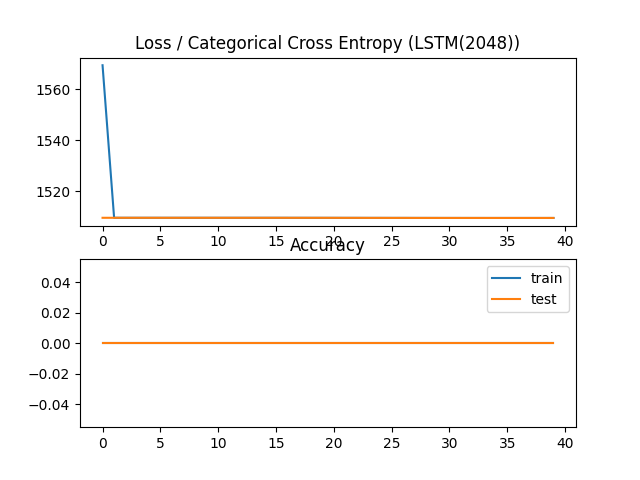
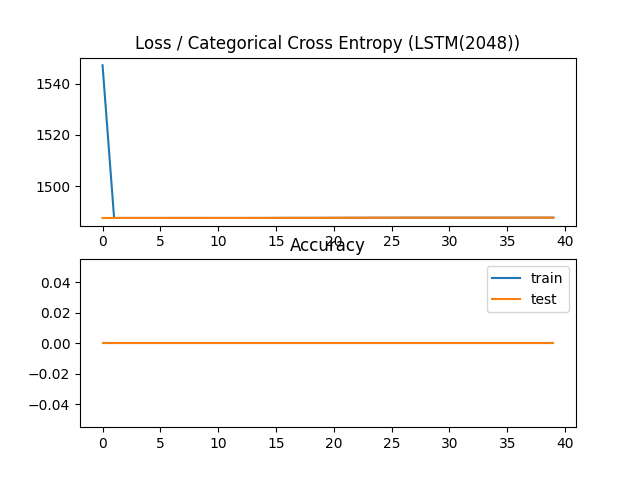
update training results

diff --git a/src/Trainers/Summary_trainer.py b/src/Trainers/Summary_trainer.py
@@ -33,7 +33,7 @@ class summary_trainer:
 
         if self.bag == None:
             self.bag = bag_of_words(1)
-            self.bag.load_wordbag()
+            self.bag.load_wordbag_withstopwords()
 
         if len(words) <= no_of_words * 2:
             return x, y
@@ -90,16 +90,16 @@ class summary_trainer:
             [
                 Input(shape=(n_features, n_class)),
                 # Bidirectional(LSTM(n_nodes, return_sequences=True)),
-                LSTM(2048, recurrent_dropout=0.3, return_sequences=True),
+                LSTM(1024, recurrent_dropout=0.2, return_sequences=True),
                 # Dropout(0.2),
-                # LSTM(n_nodes, recurrent_dropout=0.2, return_sequences=True),
+                LSTM(1024, recurrent_dropout=0.2, return_sequences=True),
                 # Dropout(0.2),
-                LSTM(2048, recurrent_dropout=0.3),
+                LSTM(1024, recurrent_dropout=0.2),
                 Dense(n_class, activation="softmax"),
             ]
         )
 
-        optimizer = keras.optimizers.RMSprop(learning_rate=0.01)
+        optimizer = keras.optimizers.RMSprop(learning_rate=0.05)
         print("Set model")
 
         plot_model(self.model, to_file='{0}lstm_neural_network.png'.format(self.PLOTS_DIRECTORY),

diff --git a/src/Trainers/BagOfWord.py b/src/Trainers/BagOfWord.py
@@ -121,6 +121,12 @@ class bag_of_words:
         filename = "bagof{}.npy".format(self.bagtype)
         self.words = dataset_helper.load_dataset( filename)
 
+    def load_wordbag_withstopwords(self):
+        filename = "bagof{}.npy".format(self.bagtype)
+        self.words = dataset_helper.load_dataset(filename)
+
+        self.words = dataset_helper.merge_dataset(self.words, np.array(self.stop_words))
+
     def merge_wordbag(self):
         filename = "bagof{}".format(self.bagtype)
 
